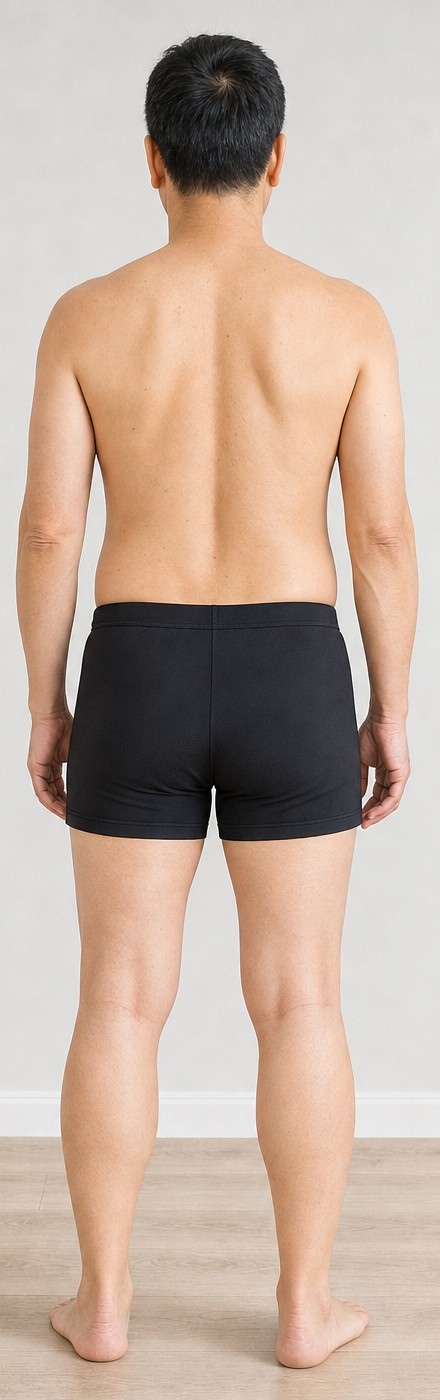
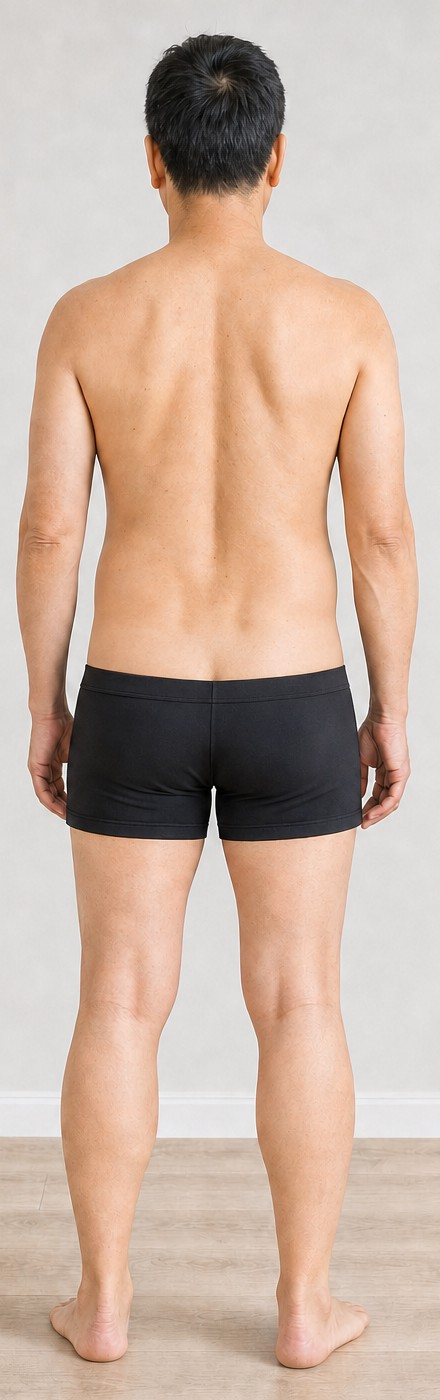
v1.8：所有示範圖褲頭再降低，貼近醫師拍攝規範

diff --git a/config.js b/config.js
@@ -4,7 +4,7 @@
 // =====================================================================
 window.BACKEND = 'https://script.google.com/macros/s/AKfycbz8lEGJFReE5NFtCD-TPk5BOZ6q5McjiMcM2KiPZIcuFl-YCtWTg0tIO89gZBuQdIlc/exec';
 window.DEFAULT_CONFIG = {
-  version:'v1.7',
+  version:'v1.8',
   sources: {
     questions: [
       {id:'Q1a', enabled:true, key:'pain', type:'bodymap', zone:0, t:'上半身，哪裡常痠痛？', sub:'點圓圈，可以點很多個。', score:{mode:'none'},
@@ -34,7 +34,7 @@ window.DEFAULT_CONFIG = {
     ],
     photoSteps: [['img/rec1.jpg','按下錄影'],['img/rec_stand.jpg','站在線上，兩腳平行，全身放鬆'],['img/rec3.jpg','回頭檢查，確定有拍到全身']],
     dress: {t:'照片要拍成這樣', male:'img/dress_m.jpg', female:'img/dress_f.jpg', maleCap:'男生｜打赤膊', femaleCap:'女生｜露背內衣',
-      calls:[['長髮盤起，露出脖子與肩線',61,15],['肩膀、脖子、上背完整露出',71,26],['褲頭低於髂骨（腰兩側骨頭）',74,42.5],['短褲，褲管不超過大腿中段',68,61.5],['膝蓋後方的橫紋要露出來',66,73],['赤足，腳跟和跟腱看得到',70,96]],
+      calls:[['長髮盤起，露出脖子與肩線',61,15],['肩膀、脖子、上背完整露出',71,26],['褲頭低於髂骨（腰兩側骨頭）',76,47],['短褲，褲管不超過大腿中段',68,61.5],['膝蓋後方的橫紋要露出來',66,73],['赤足，腳跟和跟腱看得到',70,96]],
       foot:'請取下手錶、手鍊、項鍊', zoom:'img/dress_iliac.jpg', zoomCap:'紅線是髂骨（腰兩側骨頭最上緣），褲頭要在紅線以下', note:'依黃醫師《結構照拍攝穿著參考圖》：衣服遮住，電腦就量不準。'},
     stance: {t:'兩腳平行，和肩膀差不多寬', bad:'外八（腳尖往外）不準', ok:'img/feet_par.jpg', no:'img/feet_out.jpg', tip:'找地板的線或貼一條膠帶，兩腳內側都跟線平行。', note:'11/24 黃醫師：兩腳內側平行（太極平行步），外八會把落差縮小，照片就看不準。寬度（肩寬或髖寬）待確認。'},
     photoShot: {img:'img/shot.jpg', t:'截一張圖', sub:'打開剛剛的影片，停在站好不動的那一刻，截圖。'},
